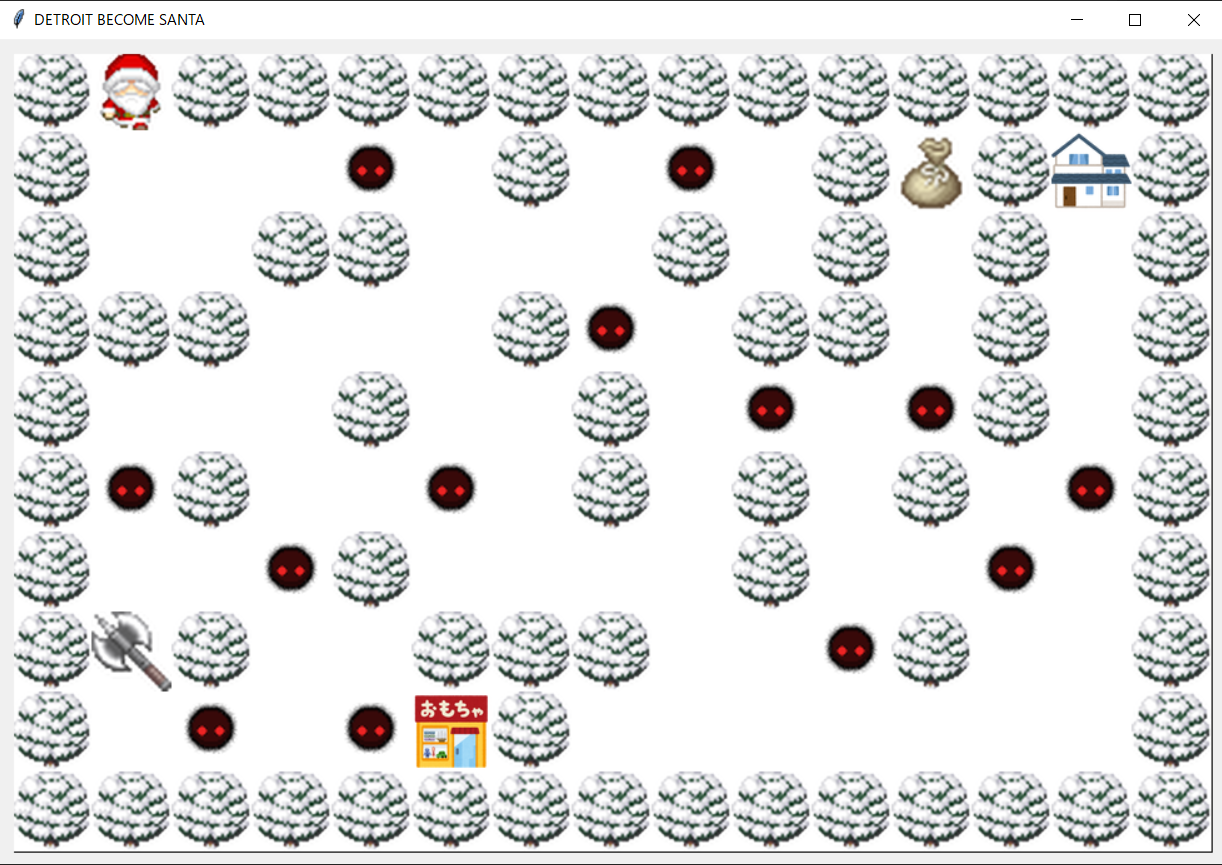
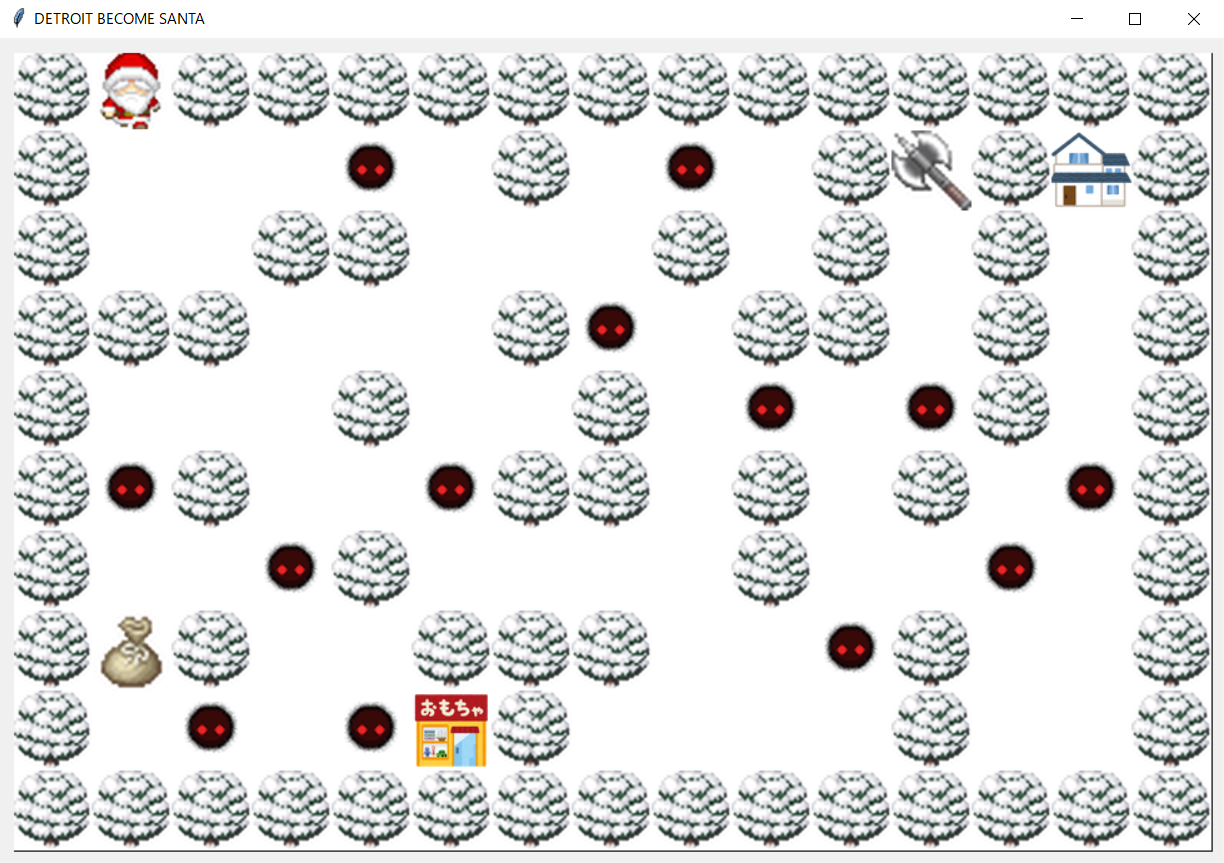
little fix

diff --git a/SantaGameFight.py b/SantaGameFight.py
@@ -169,7 +169,6 @@ class FightManager:
         canvas.create_rectangle(0, 0, 960, 640, fill="black")
         canvas.place(x=0, y=0)
         num = random.random()
-        print(num)
         if num < 0.5:
             lose_label = tkinter.Label(width=0, height=0, text=" ", font=("BIZ UD明朝 Medium", 60),
                                        fg="red", bg="black")
@@ -232,7 +231,7 @@ class Santa(Character):
     def __init__(self):
         self.name = "サンタ"
         self.hp = 50
-        self.atk = 15
+        self.atk = 20
         self.dfs = 10
 
 # 警官
@@ -243,7 +242,7 @@ class Police(Character):
         self.name = "警察官"
         self.hp = 20
         self.atk = 15
-        self.dfs = 8
+        self.dfs = 5
 
 # ヤクザ
 
@@ -251,6 +250,6 @@ class Police(Character):
 class Yakuza(Character):
     def __init__(self):
         self.name = "ヤクザ"
-        self.hp = 10
+        self.hp = 15
         self.atk = 8
         self.dfs = 5

diff --git a/SantaGame.py b/SantaGame.py
@@ -267,14 +267,14 @@ while i < 13:
 MAX_WIDTH = 15
 MAX_HEIGHT = 10
 map_data = [[2, 0, 2, 2, 2, 2, 2, 2, 2, 2, 2, 2, 2, 2, 2],
-            [2, 0, 0, 0, e[0], 0, 2, 0, e[1], 0, 2, 4, 2, 3, 2],
+            [2, 0, 0, 0, e[0], 0, 2, 0, e[1], 0, 2, 5, 2, 3, 2],
             [2, 0, 0, 2, 2, 0, 0, 0, 2, 0, 2, 0, 2, 0, 2],
             [2, 2, 2, 0, 0, 0, 2, e[2], 0, 2, 2, 0, 2, 0, 2],
             [2, 0, 0, 0, 2, 0, 0, 2, 0, e[3], 0, e[4], 2, 0, 2],
             [2, e[5], 2, 0, 0, e[6], 2, 2, 0, 2, 0, 2, 0, e[7], 2],
             [2, 0, 0, e[8], 2, 0, 0, 0, 0, 2, 0, 0, e[9], 0, 2],
-            [2, 5, 2, 0, 0, 2, 2, 2, 0, 0, e[10], 2, 0, 0, 2],
-            [2, 0, e[11], 0, e[12], 6, 2, 0, 0, 0, 0, 0, 0, 0, 2],
+            [2, 4, 2, 0, 0, 2, 2, 2, 0, 0, e[10], 2, 0, 0, 2],
+            [2, 0, e[11], 0, e[12], 6, 2, 0, 0, 0, 0, 2, 0, 0, 2],
             [2, 2, 2, 2, 2, 2, 2, 2, 2, 2, 2, 2, 2, 2, 2]]
 
 
